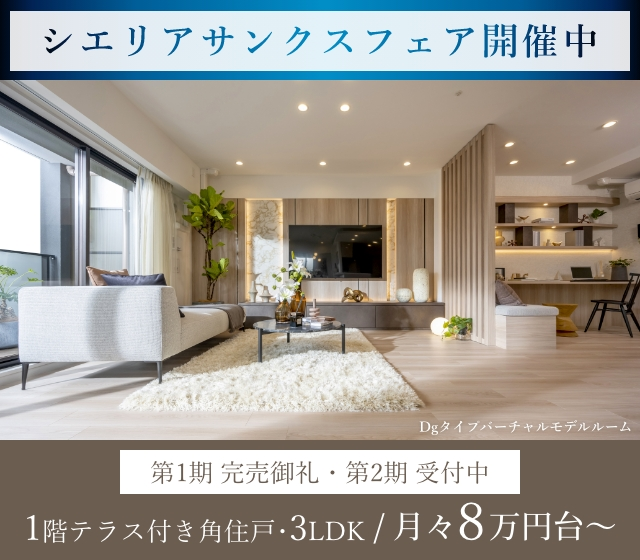
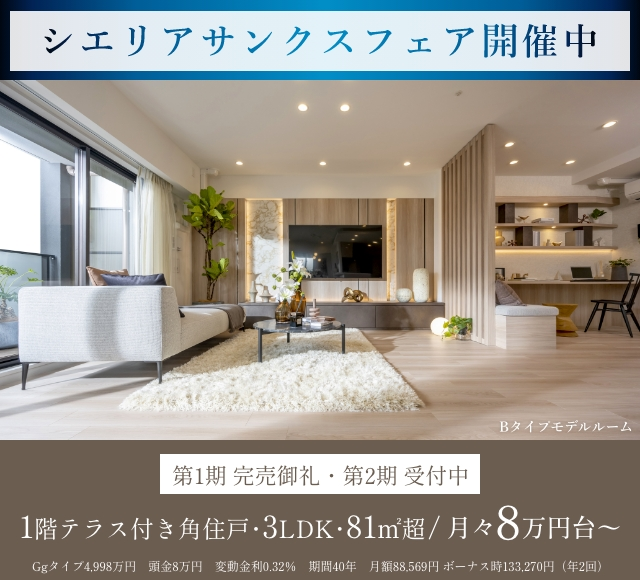
no message

diff --git a/htmlmail/230907/member.html b/htmlmail/230907/member.html
@@ -373,7 +373,7 @@ table { width: 100%; margin: 0; padding: 0; border: none; }
                 3線乗り入れるビッグターミナル<br>「大和西大寺」駅近くに誕生する「シエリア西大寺」は、<br>
                 <span class="strong">ZEH-Mと低炭素住宅の同時認定を受けており、<br>補助金や住宅ローン減税など<br>ご購入で得られるメリットがたくさんあります。<br>その中でも、<b>こどもエコすまい事業の<br>100万円補助</b>が予算金額に達成すると<br>締切となりますので、お早めにご検討ください。</span><br><span style="font-size: 70%">※詳しくは係員にお尋ねください。</span><br><br>
                     
-                現在、第2期先着順にて申込受付中！<br>3LDK 角住戸　月々8万円～。<br><span style="color: #cc0000">多目的に使える1階テラス付住戸</span>もございますので、<br>引き続きご関心をお持ちの方は、<br>シエリアサロン西大寺にて<br>モデルルーム見学（予約優先制）を<br>ご案内させていただいております。<br><br>
+                現在、第2期先着順にて申込受付中！<br>3LDK 角住戸 月々8万円～。<br><span style="color: #cc0000">多目的に使える1階テラス付の角住戸や<br>83㎡超の角住戸</span>もございますので、<br>引き続きご関心をお持ちの方は、<br>シエリアサロン西大寺にて<br>モデルルーム見学（予約優先制）を<br>ご案内させていただいております。<br><br>
                 ★新コンテンツのご紹介★<br><span class="strong">「バーチャルモデルルーム」</span>を公開しました。<br>まるで実際にその場に立っているかのような感覚を、<br>是非ご体感ください。<br><br>
                     
                 ご来場の際は、事前にご予約承りますよう<br>よろしくお願いいたします。<br><br>

diff --git a/index.html b/index.html
@@ -206,7 +206,7 @@ j=d.createElement(s),dl=l!='dataLayer'?'&l='+l:'';j.async=true;j.src=
         <!-- <div class="cap">※下記動画の再生ボタンを押すと音声が流れますので、音量など周囲にご注意ください。</div> -->
         <div class="movie">
             <div class="youtube">
-        　   <iframe width="1000" height="562" src="https://www.youtube.com/embed/dE1reOr0DlI?si=-lRPvXfic7bIDRAA?autoplay=1&mute=1" title="YouTube video player" frameborder="0" allow="accelerometer; autoplay; clipboard-write; encrypted-media; gyroscope; picture-in-picture; web-share" allowfullscreen></iframe>
+        　   <iframe width="1000" height="562" src="https://www.youtube.com/embed/dE1reOr0DlI?si=-lRPvXfic7bIDRAA?autoplay=1&mute=1&rel=0" title="YouTube video player" frameborder="0" allow="accelerometer; autoplay; clipboard-write; encrypted-media; gyroscope; picture-in-picture; web-share" allowfullscreen></iframe>
             </div>
             <div class="el"></div>
             <figure>

diff --git a/js/original.js b/js/original.js
@@ -48,7 +48,7 @@ $(function(){
     e.stopPropagation();
   });
    $('#movieArea .movie').on('click', function(){
-    const el ='<iframe width="1000" height="562" src="https://www.youtube.com/embed/dE1reOr0DlI?si=-lRPvXfic7bIDRAA?&mute=1&autoplay=1" title="YouTube video player" frameborder="0" allow="accelerometer; autoplay; clipboard-write; encrypted-media; gyroscope; picture-in-picture; web-share" allowfullscreen></iframe>'
+    const el ='<iframe width="1000" height="562" src="https://www.youtube.com/embed/dE1reOr0DlI?si=-lRPvXfic7bIDRAA?&mute=1&autoplay=1&rel=0" title="YouTube video player" frameborder="0" allow="accelerometer; autoplay; clipboard-write; encrypted-media; gyroscope; picture-in-picture; web-share" allowfullscreen></iframe>'
     $('figure',this).fadeOut(400);
     $('.el',this).append(el);
   });
